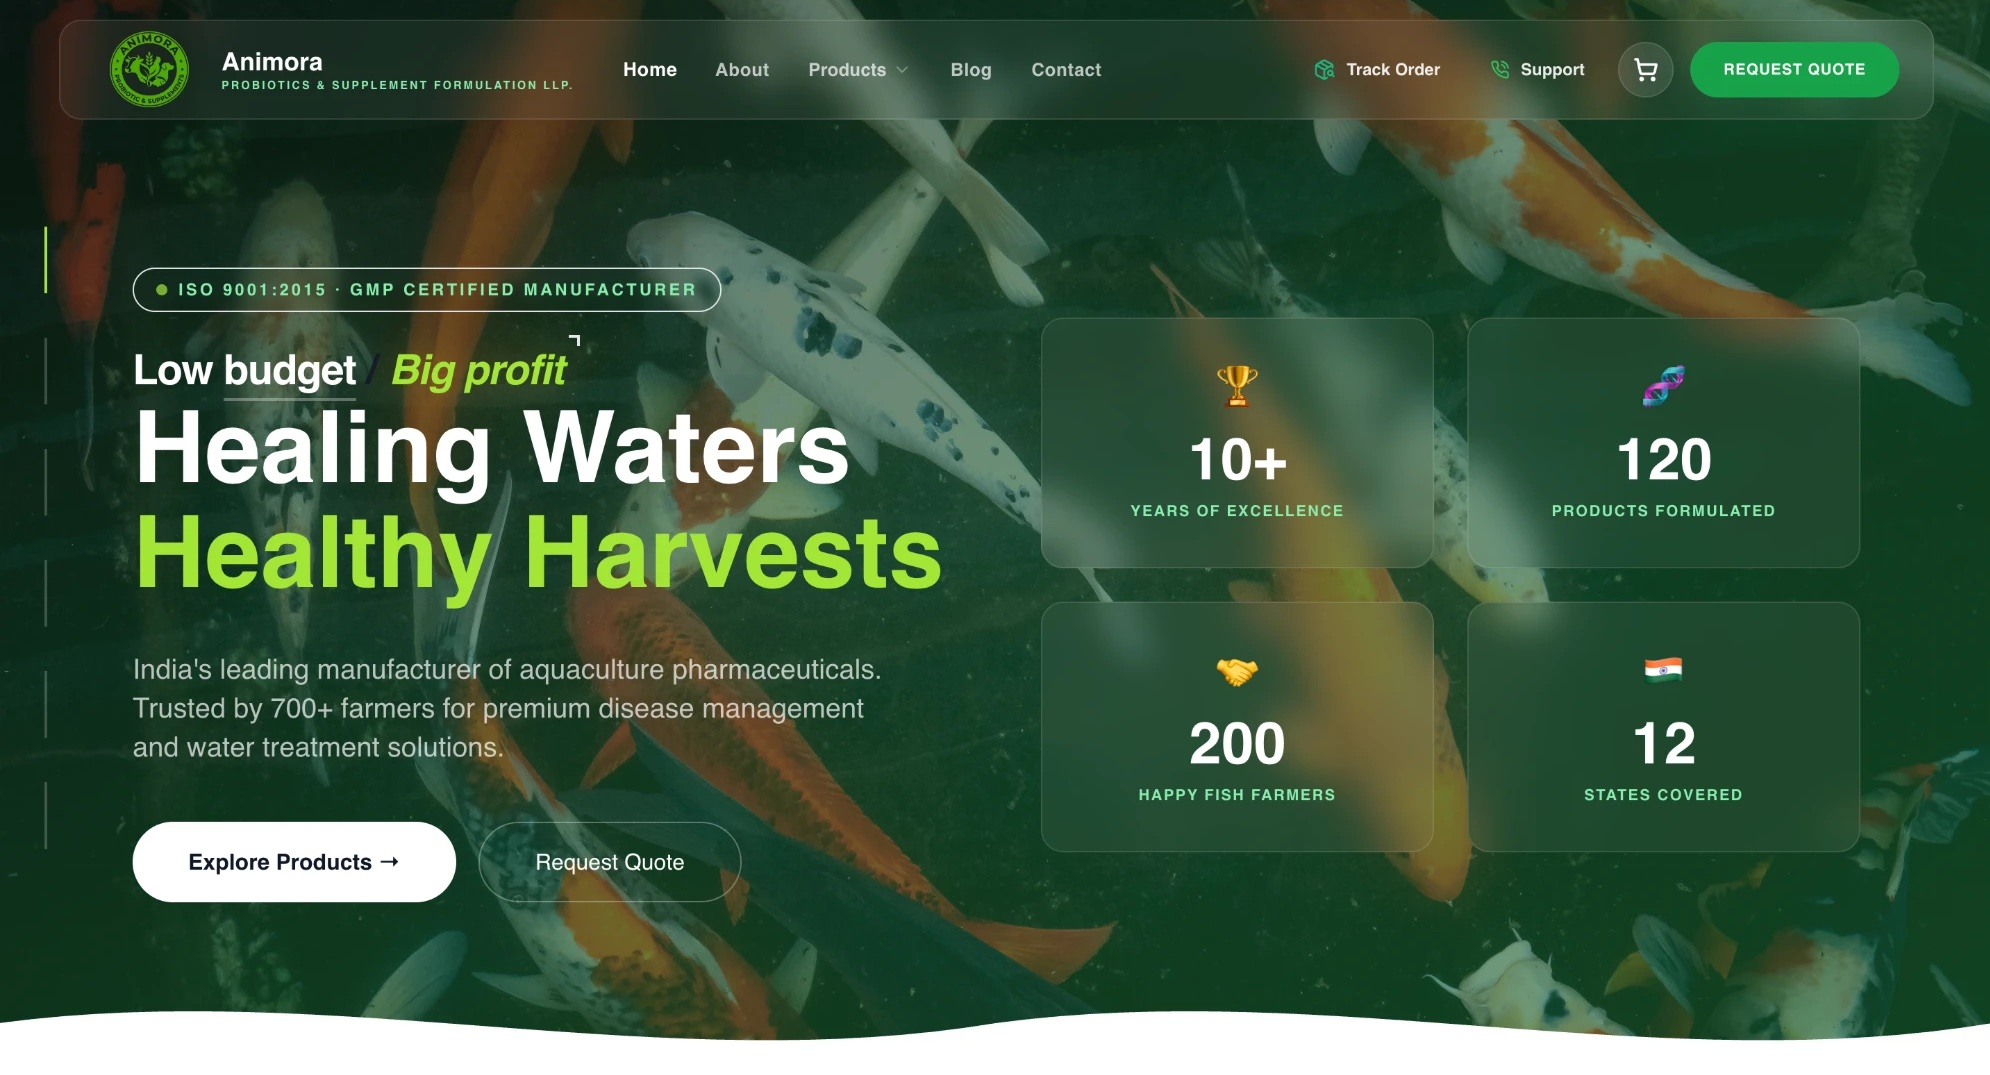
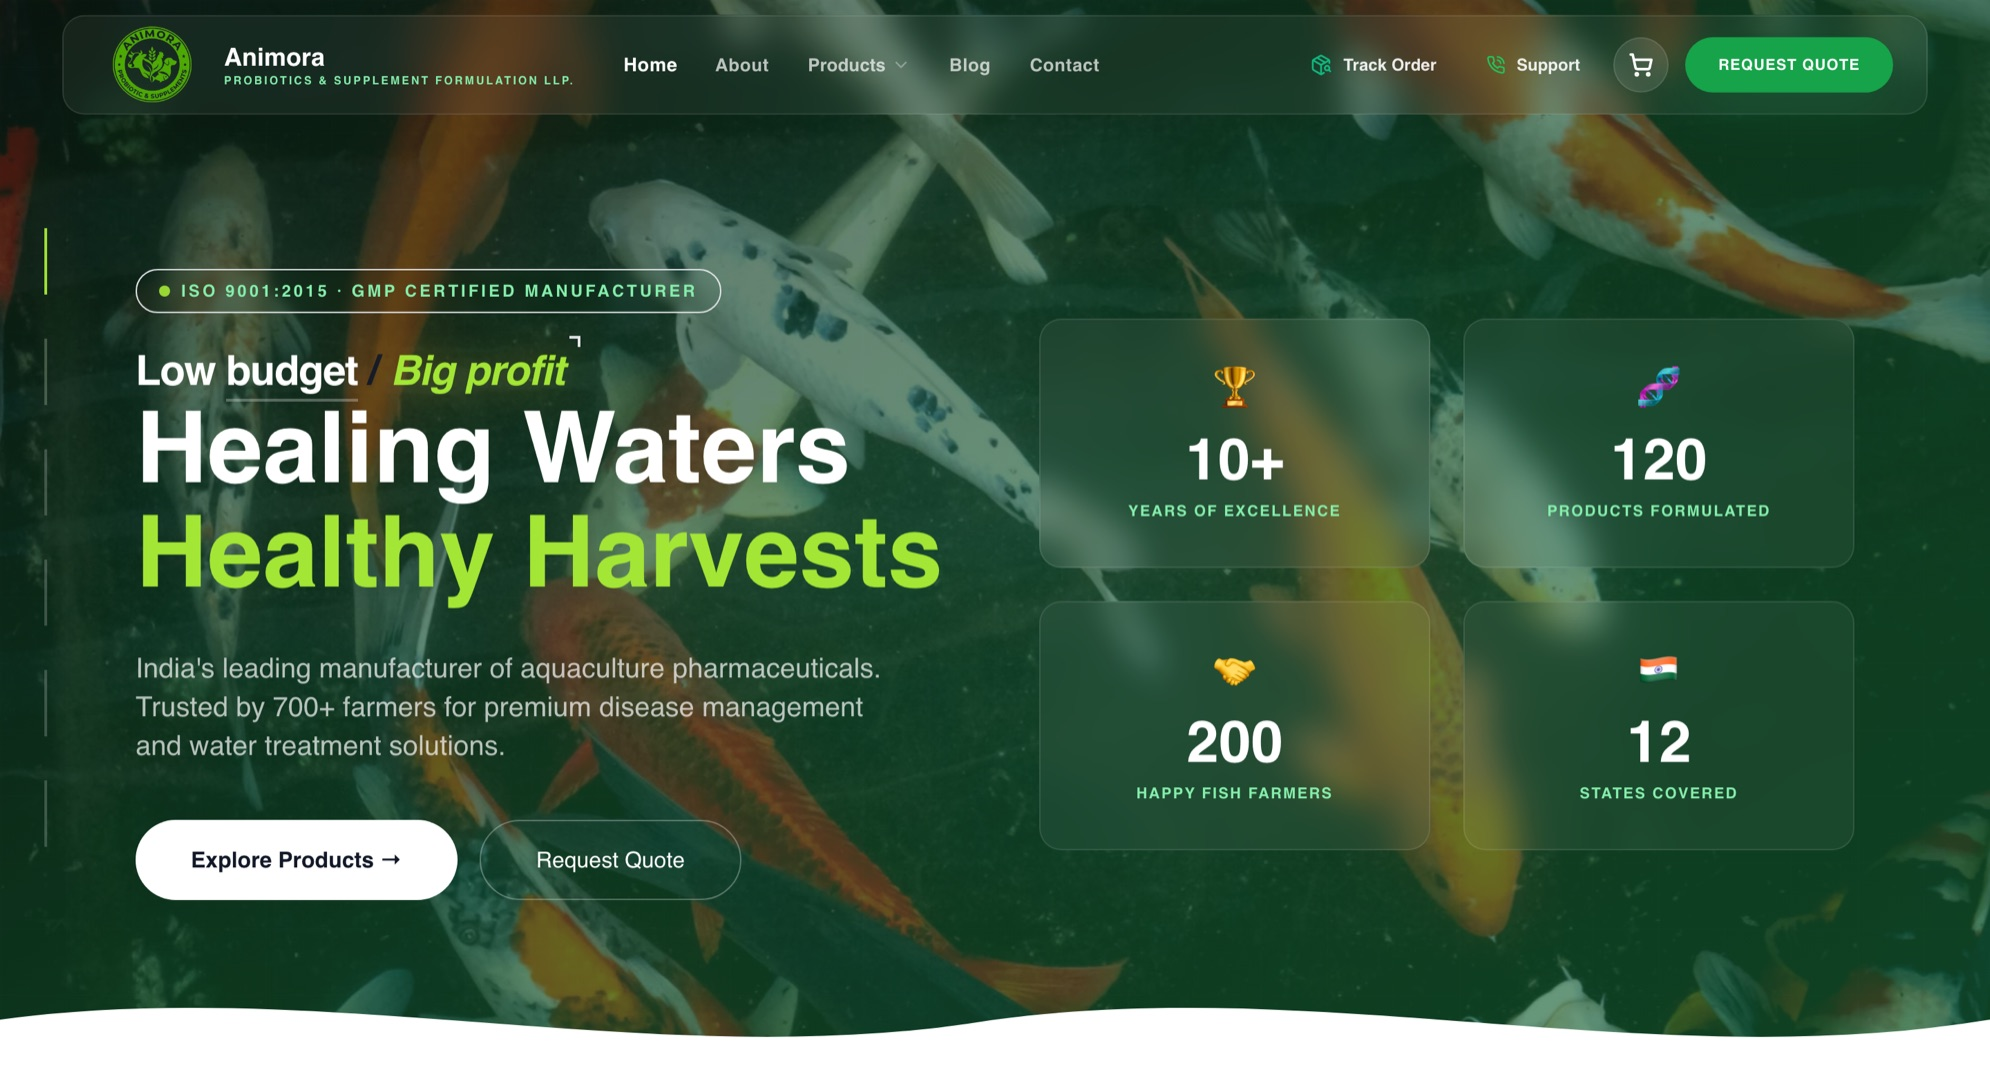
Work section: fresh live-site screenshots in browser frames
- Re-capture Animora, Andarmahal and Techtheta homepages as they look today
- Show real-screenshot projects first, framed with a browser bar and URL
- Uniform 16:9 cards; label private client projects without screenshots
- Auto-load project images by slug from src/assets/projects/
- Sharper, site-specific project descriptions

diff --git a/src/components/site/Projects.jsx b/src/components/site/Projects.jsx
@@ -4,46 +4,68 @@ import { gsap, useGSAP, prefersReducedMotion } from '../../lib/gsap';
 import { projects } from '../../data/portfolio';
 import SectionLabel from './SectionLabel';
 
-/** Abstract "app window" artwork so each card has a visual without screenshots. */
+const host = (url) => url.replace(/^https?:\/\//, '').replace(/\/$/, '');
+
+/** Slim browser frame so real screenshots read as live products. */
+function BrowserBar({ label }) {
+  return (
+    <div className="relative z-[1] flex items-center gap-2 h-7 px-3 bg-[#18181b] border-b border-white/[0.06]">
+      <span className="flex gap-1.5" aria-hidden="true">
+        <span className="w-2 h-2 rounded-full bg-white/15" />
+        <span className="w-2 h-2 rounded-full bg-white/15" />
+        <span className="w-2 h-2 rounded-full bg-white/15" />
+      </span>
+      <span className="mx-auto max-w-[60%] truncate rounded-md bg-white/[0.06] px-3 py-0.5 font-mono text-[10px] text-white/55">{label}</span>
+    </div>
+  );
+}
+
+/** Real screenshot when we have one; otherwise abstract "app window" artwork for private client work. */
 function Preview({ project, index }) {
   if (project.image) {
     return (
-      <div className={`relative h-full w-full overflow-hidden rounded-2xl bg-gradient-to-br ${project.gradient}`}>
-        <img
-          src={project.image}
-          alt={`${project.title} website screenshot`}
-          loading="lazy"
-          className="absolute inset-0 h-full w-full object-cover object-top transition-transform duration-700 group-hover:scale-105"
-        />
-        <div className="absolute inset-0 bg-gradient-to-t from-black/40 via-transparent to-transparent" />
-        <span className="absolute -bottom-6 -right-2 font-display text-[6rem] md:text-[8rem] font-bold leading-none text-white/15 select-none">
-          0{index + 1}
-        </span>
+      <div className="relative flex h-full w-full flex-col overflow-hidden rounded-2xl border border-white/[0.06] bg-[#111113]">
+        <BrowserBar label={project.live && project.live !== '#' ? host(project.live) : project.title} />
+        <div className="relative flex-1 overflow-hidden">
+          <img
+            src={project.image}
+            alt={`${project.title} homepage`}
+            loading="eager"
+            fetchPriority="low"
+            decoding="async"
+            className="absolute inset-0 h-full w-full object-cover object-top transition-transform duration-700 ease-out group-hover:scale-[1.03]"
+          />
+        </div>
       </div>
     );
   }
   return (
-    <div className={`relative h-full w-full overflow-hidden rounded-2xl bg-gradient-to-br ${project.gradient}`}>
+    <div className={`relative h-full w-full overflow-hidden rounded-2xl border border-white/[0.06] bg-gradient-to-br ${project.gradient}`}>
       <div
-        className="absolute inset-0 opacity-25"
+        className="absolute inset-0 opacity-[0.12]"
         style={{ backgroundImage: 'linear-gradient(#fff3 1px, transparent 1px), linear-gradient(90deg, #fff3 1px, transparent 1px)', backgroundSize: '32px 32px' }}
       />
-      <span className="absolute -bottom-6 -right-2 font-display text-[6rem] md:text-[8rem] font-bold leading-none text-white/15 select-none">
+      <span className="absolute -bottom-6 -right-2 font-display text-[6rem] md:text-[8rem] font-bold leading-none text-white/[0.06] select-none">
         0{index + 1}
       </span>
-      <div data-window className="absolute left-[8%] top-[14%] w-[72%] rounded-xl bg-[rgb(255_255_255/0.92)] shadow-2xl shadow-black/30 overflow-hidden">
-        <div className="flex items-center gap-1.5 px-3 py-2 bg-black/5">
-          <span className="w-2 h-2 rounded-full bg-red-400" />
-          <span className="w-2 h-2 rounded-full bg-amber-400" />
-          <span className="w-2 h-2 rounded-full bg-emerald-400" />
-          <span className="ml-3 h-3 flex-1 rounded bg-black/10" />
+      {project.private && (
+        <span className="absolute left-4 top-4 z-[1] inline-flex items-center gap-1.5 rounded-full border border-white/10 bg-black/40 px-3 py-1 font-mono text-[10px] uppercase tracking-[0.15em] text-white/60 backdrop-blur">
+          <span className="w-1.5 h-1.5 rounded-full bg-[rgb(197_232_108)]" /> Private client project
+        </span>
+      )}
+      <div data-window className="absolute left-[10%] top-[24%] w-[70%] rounded-xl bg-[#1c1c1f] border border-white/[0.08] shadow-2xl shadow-black/40 overflow-hidden">
+        <div className="flex items-center gap-1.5 px-3 py-2 border-b border-white/[0.06]">
+          <span className="w-2 h-2 rounded-full bg-white/15" />
+          <span className="w-2 h-2 rounded-full bg-white/15" />
+          <span className="w-2 h-2 rounded-full bg-white/15" />
+          <span className="ml-3 h-2.5 flex-1 rounded bg-white/[0.06]" />
         </div>
         <div className="p-4 space-y-2.5">
-          <div className="h-3 w-1/2 rounded bg-black/20" />
-          <div className="h-2 w-5/6 rounded bg-black/10" />
-          <div className="h-2 w-2/3 rounded bg-black/10" />
+          <div className="h-2.5 w-1/2 rounded bg-white/20" />
+          <div className="h-2 w-5/6 rounded bg-white/10" />
+          <div className="h-2 w-2/3 rounded bg-white/10" />
           <div className="grid grid-cols-3 gap-2 pt-2">
-            {[0, 1, 2].map((i) => <div key={i} className={`h-12 rounded-lg ${i === 0 ? 'bg-[rgb(197_232_108)]' : 'bg-black/10'}`} />)}
+            {[0, 1, 2].map((i) => <div key={i} className={`h-12 rounded-lg ${i === 0 ? 'bg-[rgb(197_232_108)]/80' : 'bg-white/[0.06]'}`} />)}
           </div>
         </div>
       </div>
@@ -60,7 +82,7 @@ function ProjectCard({ project, index }) {
       data-card
       className="glass-pearl group flex h-full w-full flex-col rounded-3xl p-3 md:p-4"
     >
-      <div className={`relative ${project.image ? 'aspect-[1990/1075]' : 'h-[30vh] md:h-[34vh] max-h-[320px]'}`}>
+      <div className="relative aspect-[16/9]">
         <Preview project={project} index={index} />
       </div>
       <div className="flex flex-wrap items-start justify-between gap-4 px-2 pt-4 pb-1">
@@ -158,7 +180,7 @@ export default function Projects() {
             Things I’ve <span className="text-gradient">shipped.</span>
           </h2>
           <p className="mt-6 text-white/50 leading-relaxed">
-            Products I've built for real businesses: ERP, analytics dashboards, healthcare, pharmacy, interiors and corporate sites.
+            Live sites I've shipped for real businesses, plus private systems: ERP, analytics dashboards and pharmacy management.
           </p>
           <p className="mt-10 font-mono text-xs uppercase tracking-[0.25em] text-white/40">Scroll to explore →</p>
         </div>

diff --git a/src/data/portfolio.js b/src/data/portfolio.js
@@ -81,105 +81,88 @@ export const techStack = [
   { name: "Git", icon: "🔧" },
 ];
 
-import animoraImg from "../assets/projects/animora.jpg";
-import andarmahalImg from "../assets/projects/andarmahal.jpg";
-import techthetaImg from "../assets/projects/techtheta.jpg";
+// Project screenshots: drop an image named after a project's slug into src/assets/projects/
+// (e.g. construction-erp.png) and it shows up on that card automatically.
+const shots = import.meta.glob("../assets/projects/*.{jpg,jpeg,png,webp}", { eager: true, import: "default" });
+const shot = (slug) => {
+  const key = Object.keys(shots).find((k) => k.split("/").pop().replace(/\.[^.]+$/, "") === slug);
+  return key ? shots[key] : undefined;
+};
+
+const graphite = "from-[#232326] to-[#141416]";
 
 export const projects = [
   {
+    id: 1,
+    slug: "animora",
+    title: "Animora Probiotic",
+    description:
+      "Product website for an aquaculture probiotics manufacturer: product catalogue, quote requests and order tracking, built for SEO and speed.",
+    tags: ["Next.js", "TypeScript", "Tailwind CSS"],
+    category: "Business website",
+    live: "https://animoraprobiotic.com",
+  },
+  {
+    id: 3,
+    slug: "andarmahal",
+    title: "Andarmahal Interiors",
+    description:
+      "Interior designer site with scroll-driven storytelling, three languages (English, Bengali, Hindi), a cost calculator and an enquiry flow.",
+    tags: ["React.js", "Laravel"],
+    category: "Business website",
+    live: "https://andarmahal.in",
+  },
+  {
+    id: 4,
+    slug: "techtheta",
+    title: "Techtheta IT Solution",
+    description:
+      "Corporate website for an IT services company, presenting CRM, ERP, AI and mobile services with lead-generation and quote flows.",
+    tags: ["Next.js", "Tailwind CSS"],
+    category: "Corporate website",
+    live: "https://techthetaitsolution.com",
+  },
+  {
     id: 5,
+    slug: "construction-erp",
     title: "Construction ERP Platform",
     description:
       "ERP for civil construction companies: React dashboards, Express.js REST APIs and a PostgreSQL data model covering projects, resources and operations.",
     tags: ["React.js", "Express.js", "PostgreSQL"],
     category: "ERP · In progress",
-    gradient: "from-[#232326] to-[#141416]",
-    github: "#",
-    live: "#",
-    featured: true,
+    private: true,
   },
-
-  {
-    id: 1,
-    title: "Animora Probiotic",
-    description:
-      "SEO optimized healthcare product website built with Next.js, TypeScript and Tailwind CSS.",
-    tags: ["Next.js", "TypeScript", "Tailwind CSS"],
-    category: "Frontend",
-    gradient: "from-[#232326] to-[#141416]",
-    github: "#",
-    live: "https://animoraprobiotic.com",
-    image: animoraImg,
-    featured: true,
-  },
-
   {
     id: 2,
+    slug: "medical-store",
     title: "Medical Store Management System",
     description:
       "Inventory, billing and pharmacy management system with real-time stock management.",
     tags: ["React.js", "NestJS", "PostgreSQL"],
-    category: "Full Stack",
-    gradient: "from-[#232326] to-[#141416]",
-    github: "#",
-    live: "#",
-    featured: true,
+    category: "Business system",
+    private: true,
   },
-
-  {
-    id: 3,
-    title: "Andarmahal",
-    description:
-      "Interior showcase platform with inquiry management and responsive frontend experience.",
-    tags: ["React.js", "Laravel"],
-    category: "Frontend",
-    gradient: "from-[#232326] to-[#141416]",
-    github: "#",
-    live: "https://andarmahal.in",
-    image: andarmahalImg,
-    featured: true,
-  },
-
-  {
-    id: 4,
-    title: "Techtheta IT Solution",
-    description:
-      "Corporate website focused on modern UI/UX and lead generation workflows.",
-    tags: ["Next.js", "Tailwind CSS"],
-    category: "Frontend",
-    gradient: "from-[#232326] to-[#141416]",
-    github: "#",
-    live: "https://techthetaitsolution.com",
-    image: techthetaImg,
-    featured: true,
-  },
-
   {
     id: 6,
+    slug: "stock-analytics",
     title: "Stock Market Analytics Dashboard",
     description:
       "Real-time stock metrics dashboard with Chart.js, drag-and-drop table ordering, filters and lazy-loaded large datasets.",
     tags: ["React.js", "Chart.js", "Data Viz"],
     category: "Dashboard",
-    gradient: "from-[#232326] to-[#141416]",
-    github: "#",
-    live: "#",
-    featured: true,
+    private: true,
   },
-
   {
     id: 7,
+    slug: "economic-portal",
     title: "Economic Data Portal",
     description:
       "Admin dashboard to upload, analyse and visualise economic indicators, with role-based access and cached APIs for faster responses.",
     tags: ["React.js", "RBAC", "API Caching"],
-    category: "Data Platform",
-    gradient: "from-[#232326] to-[#141416]",
-    github: "#",
-    live: "#",
-    featured: true,
+    category: "Data platform",
+    private: true,
   },
-];
+].map((p) => ({ gradient: graphite, github: "#", live: "#", featured: true, ...p, image: shot(p.slug) }));
 
 export const experience = [
   {
